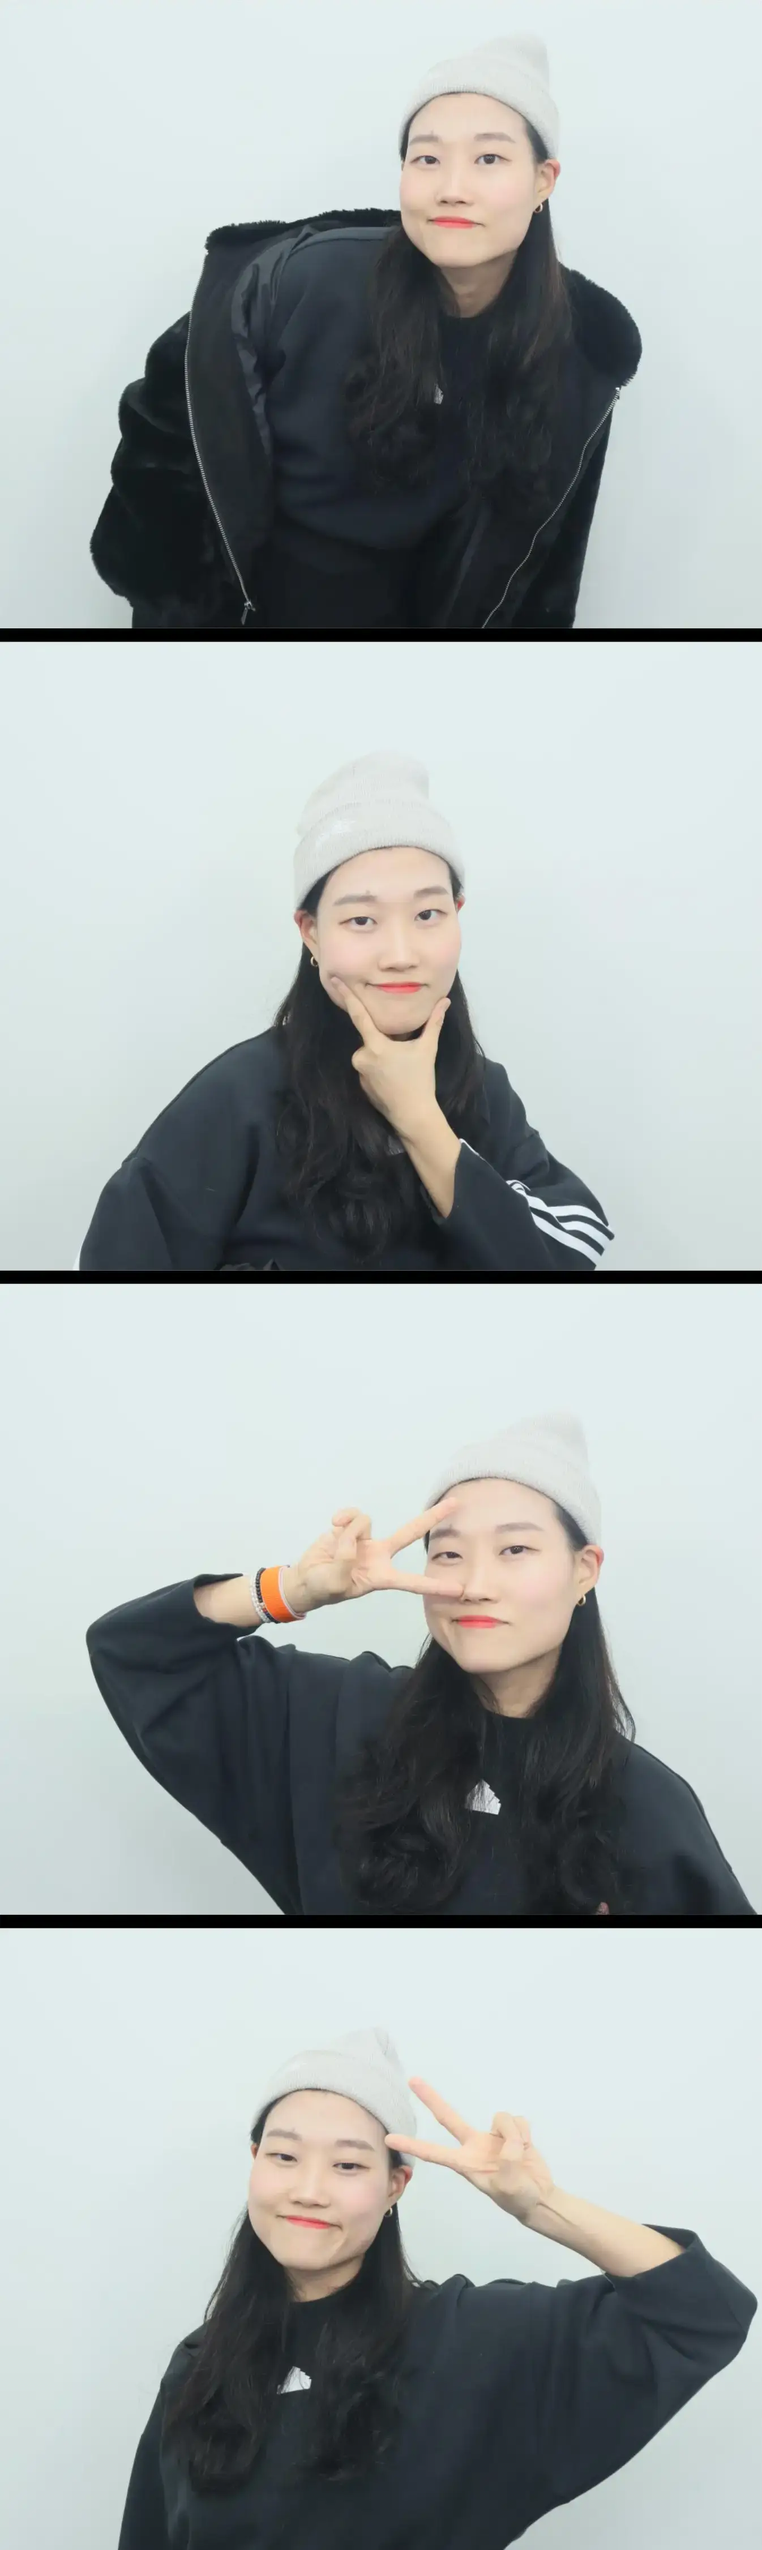
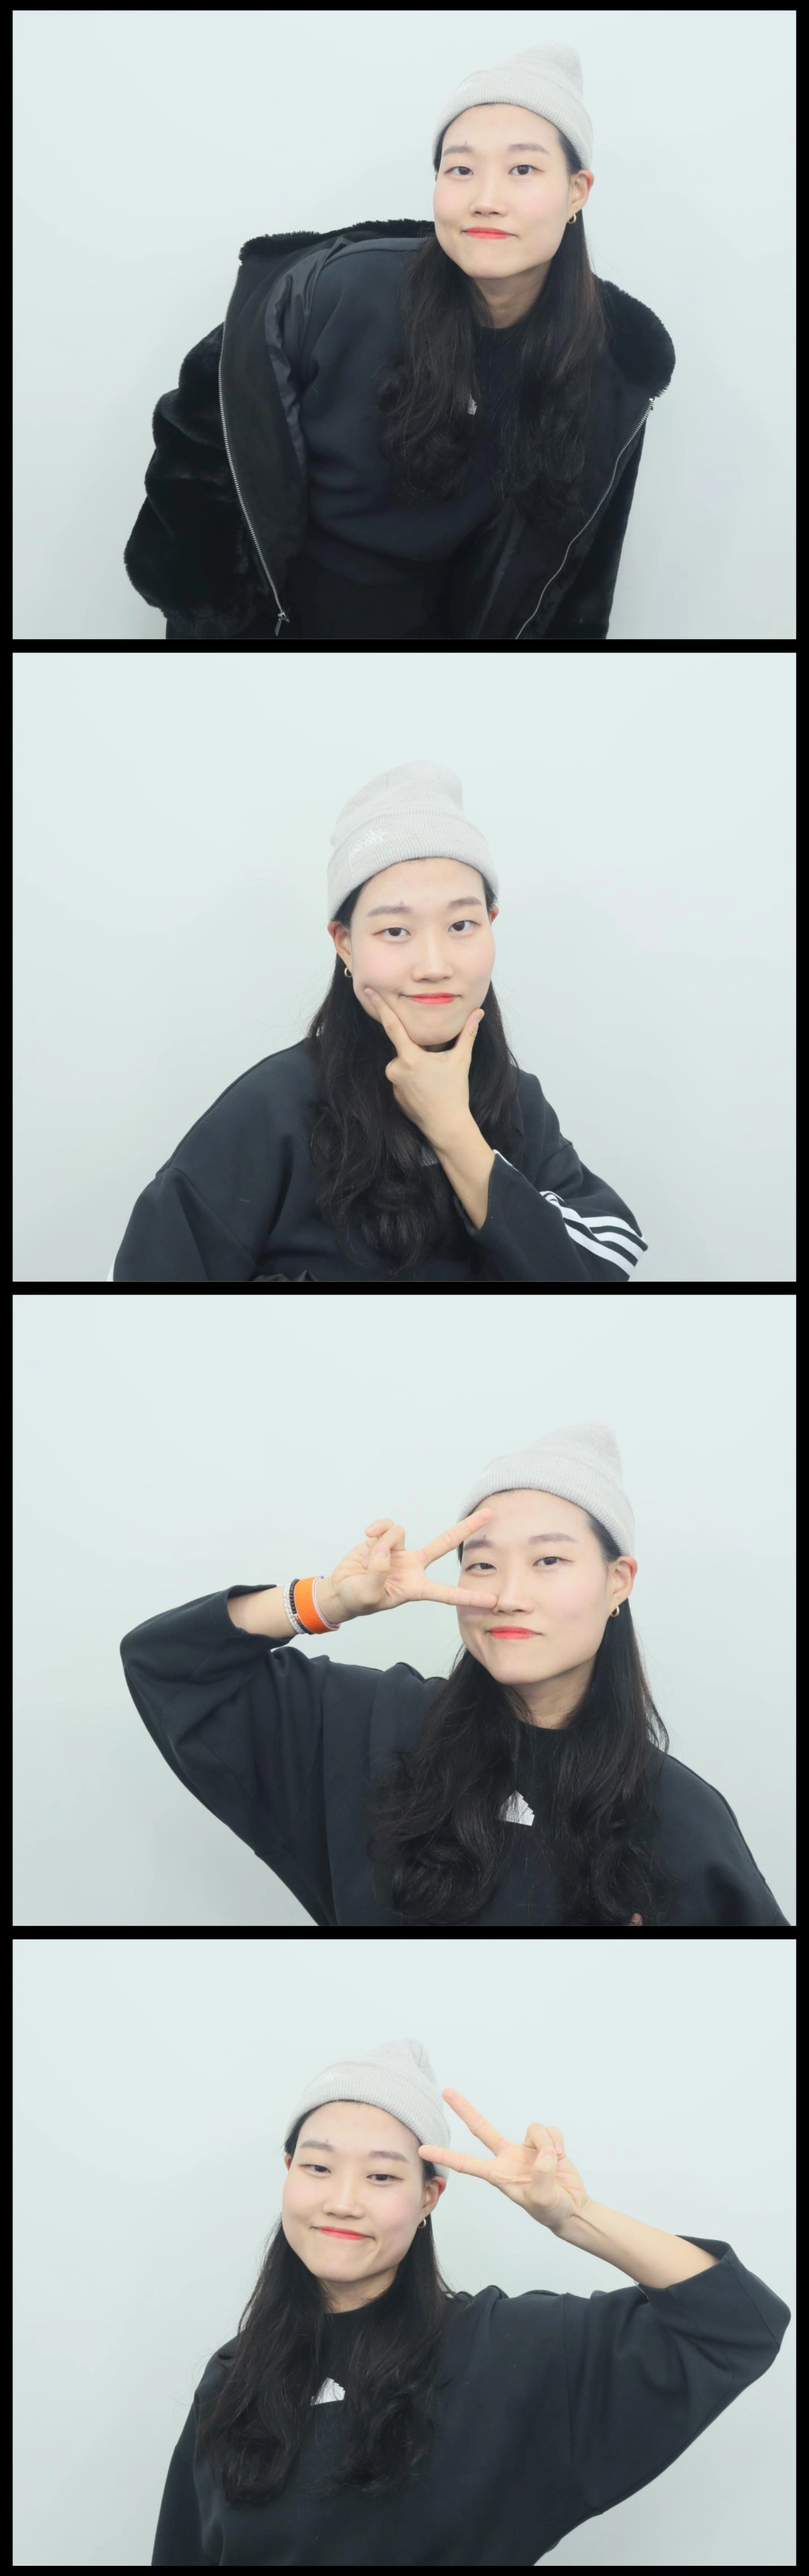
new main done

diff --git a/src/views/NewMain.vue b/src/views/NewMain.vue
@@ -1,7 +1,66 @@
 <script setup>
+import { ref, onMounted } from "vue"
+import { gsap } from "gsap"
+import { SplitText } from "gsap/SplitText"
+import { CustomEase } from "gsap/CustomEase"
+
 import { useI18n } from 'vue-i18n'
 const { t, locale } = useI18n()
 
+gsap.registerPlugin(SplitText, CustomEase)
+CustomEase.create("osmo-ease", "0.625, 0.05, 0, 1")
+const headingRef = ref(null)
+const miniTitRef = ref(null)
+const nameRef = ref(null)
+const subListRef = ref(null)
+const miniTxtRef = ref(null)
+
+let currentTween = null
+let currentTargets = null
+
+const config = {
+  duration: 0.8,
+  stagger: 0.05,
+  ease: "osmo-ease",
+}
+
+function animate(target) {
+  if (!target) return
+
+  // SplitText 처리
+  const split = SplitText.create(target, {
+    type: "words",
+    wordsClass: "word",
+  })
+
+  gsap.fromTo(
+    split.words,
+    { yPercent: 50, opacity: 0 },
+    {
+      yPercent: 0,
+      opacity: 1,
+      duration: config.duration,
+      stagger: config.stagger,
+      ease: config.ease,
+    }
+  )
+}
+
+onMounted(() => {
+  gsap.set([headingRef.value, miniTitRef.value,  nameRef.value, subListRef.value, miniTxtRef.value], {
+    opacity: 0,
+  })
+
+  document.fonts.ready.then(() => {
+    const elements = [headingRef.value, miniTitRef.value,  nameRef.value, subListRef.value, miniTxtRef.value]
+    elements.forEach((el, i) => {
+      gsap.delayedCall(i * 0.6, () => {
+        gsap.to(el, { opacity: 1, duration: 0.5 })
+        animate(el)
+      })
+    })
+  })
+})
 </script>
 
 <template>
@@ -9,18 +68,18 @@ const { t, locale } = useI18n()
     <div class="new__container">
       <div class="new__img"></div>
       <div class="new__main">
-        <div class="new__minitit">BASED IN SOUTH KOREA</div>
-        <h1 class="new__tit">CREATIVE DESIGNER</h1>
+        <div class="new__minitit" ref="miniTitRef">BASED IN SOUTH KOREA</div>
+        <h1 data-split="heading" ref="headingRef" class="new__tit">CREATIVE DESIGNER</h1>
       </div>
       <div class="new__subbox">
-        <h4 class="new__name">MINJI KIM</h4>
-        <ul class="new__sublist">
+        <h4 class="new__name" ref="nameRef">MINJI KIM</h4>
+        <ul class="new__sublist" ref="subListRef">
           <li>DESIGN WORK</li>
           <li>WEB DESIGN[UI/UX]</li>
           <li>WEB DEVELOPMENT</li>
         </ul>
       </div>
-      <div class="new__minitxt">
+      <div class="new__minitxt" ref="miniTxtRef">
         {{ t('new.maintxt') }}
       </div>
     </div>
@@ -29,19 +88,33 @@ const { t, locale } = useI18n()
 
 <style lang="scss">
 .new {
+  --width: 100%;
   height: 100%;
   width: 100%;
   font-family:'GmarketSans';
 
   &__container{
     position: relative;
-    display: grid;
-    grid-template-areas: 
-    ". . ."
-    "main main main"
-    ". . ."
-    ". sub sub"
-    ". . mini";
+    &::before{
+      position: absolute;
+      content: '';
+      display: block;
+      width: 100%;
+      height: 1px;
+      background-color: #fff;
+      top: 15%;
+      z-index: -1;
+    }
+    &::after{
+      position: absolute;
+      content: '';
+      display: block;
+      width: 100%;
+      height: 1px;
+      background-color: #fff;
+      bottom: 15%;
+      z-index: -1;
+    }
   }
   &__img{
     position: absolute;
@@ -58,32 +131,72 @@ const { t, locale } = useI18n()
     padding: 15% 50px 0;
     width: 100%;
     --font-scale: 0.08; 
-    grid-area: main;
+
   }
   &__minitit{
     text-align: right;
     letter-spacing: 0.8em;
-    font-size: calc(var(--font-scale) * 14vw);
+    font-size: calc(var(--font-scale) * 13vw);
     padding-right: 5px;
+    overflow: hidden;
   }
   &__tit{
+    position: relative;
     text-align: center;
     font-size: calc(var(--font-scale) * 94vw);
     font-weight: 800;
     color: #000;
     mix-blend-mode: overlay;
+    z-index: 1;
+    &::before{
+      position: absolute;
+      content: '';
+      display: block;
+      width: 1px;
+      height: 100vh;
+      background-color: #fff;
+      top: -150%;
+      left: 10%;
+      z-index: -1;
+    }
+    &::after{
+      position: absolute;
+      content: '';
+      display: block;
+      width: 1px;
+      height: 100vh;
+      background-color: #fff;
+      top: -150%;
+      right: 5%;
+      z-index: -1;
+    }
   }
   &__subbox{
     background-color: #fff;
     grid-area: sub;
     --font-scale: 0.08;
+    width: calc(var(--width) * 0.43);
+    margin-left: 20%;
+    padding: 130px 20px 20px;
+
+
   }
   &__name{
     font-size: calc(var(--font-scale) * 20vw);
+    padding-bottom: 50px;
+    overflow: hidden;
   }
-  &__sublist{}
+  &__sublist{
+    font-size: calc(var(--font-scale) * 19vw);
+    li {
+  overflow: hidden;
+}
+  }
   &__minitxt{
-    grid-area: mini;
+    float: right;
+    width: calc(var(--width) * 0.4);
+    padding: 10px 55px 0;
+    font-size: 14px;
   }
 }
 </style>

diff --git a/src/views/MySkills.vue b/src/views/MySkills.vue
@@ -18,6 +18,8 @@ gsap.registerPlugin(ScrollTrigger);
 
 const scrollerRef = ref(null);
 let bodyScrollBar;
+const isScrolling = ref(false)
+let scrollTimeout = null
 
 onMounted(() => {
   bodyScrollBar = Scrollbar.init(scrollerRef.value, {
@@ -101,6 +103,11 @@ onMounted(() => {
     end: () => "+=" + images.length * window.innerHeight,
     invalidateOnRefresh: true,
   });
+  bodyScrollBar.addListener(({ offset }) => {
+    // offset.y = 현재 스크롤 위치
+    // 예: 0이면 맨 위, 200 이상이면 버튼 표시
+    isScrolling.value = offset.y > 0
+  })
 
 });
 
@@ -123,6 +130,7 @@ const scrollToBottom = () => {
     bodyScrollBar.scrollTo(0, maxScrollTop, 800);
   }
 };
+
 
 </script>
 <template>
@@ -191,15 +199,15 @@ const scrollToBottom = () => {
       </div>
     </div> 
     <Footer></Footer>
-    <div class="scroll-btn-group">
-      <button class="scroll-btn top" @click="scrollToTop"><span class="material-icons-round">expand_less</span></button>
-      <button class="scroll-btn bottom" @click="scrollToBottom"><span class="material-icons-round">expand_more</span> </button>
-    </div>
-    <div class="scroll-btn-group2">
-      <button class="scroll-btn top" @click="scrollToTop"><span class="material-icons-round">expand_less</span></button>
-      <button class="scroll-btn bottom" @click="scrollToBottom"><span class="material-icons-round">expand_more</span> </button>
-    </div>
+   
+
   </div>
+    <transition name="fade">      
+      <div class="scroll-btn-group2" v-if="isScrolling">
+        <button class="scroll-btn top" @click="scrollToTop"><span class="material-icons-round">expand_less</span></button>
+        <button class="scroll-btn bottom" @click="scrollToBottom"><span class="material-icons-round">expand_more</span> </button>
+      </div>
+    </transition>
 </template>
 
 
@@ -207,7 +215,7 @@ const scrollToBottom = () => {
 <style scoped lang="scss">
 
 ::-webkit-scrollbar {
-  display: none !important; /* Chrome, Safari, Edge */
+  display: none !important; 
 }
 .scroller {
   height: 100vh;
@@ -219,7 +227,7 @@ const scrollToBottom = () => {
   background-size: cover;
   position: relative;
   z-index: 10;
-  height: 100vh;
+  min-height: 100vh;
   overflow: hidden !important;
 }
 .main-box {
@@ -524,38 +532,9 @@ const scrollToBottom = () => {
     color: #333;  
   }
 }
-.scroll-btn-group {
-  position: fixed;
-  right: 50px;
-  top: 8%;
-  display: flex;
-  flex-direction: column;
-  gap: 10px;
-  z-index: 999;
-  .scroll-btn {
-    padding: 5px 8px;
-    background: rgba( 255, 255, 255, 0.1 );
-    box-shadow: 0 3px 20px 0 rgba(0, 0, 0, 0.37);
-    backdrop-filter: blur( 4px );
-    -webkit-backdrop-filter: blur( 4px );
-    border-radius: 10px;
-    border: 1px solid rgba( 255, 255, 255, 0.18 );
-    color: #fff;
-    border: none;
-    border-radius: 6px;
-    cursor: pointer;
-    font-weight: bold;
-    transition: background-color 0.3s;
-  }
-  @media (max-width: 768px) {
-    right: 20px;
-    top: 8%;
-  }
-}
-
-
 .scroll-btn:hover {
   background-color: #555 !important;
+  color: #eee !important;
 }
 
 
@@ -575,7 +554,7 @@ const scrollToBottom = () => {
     -webkit-backdrop-filter: blur( 4px );
     border-radius: 10px;
     border: 1px solid rgba( 255, 255, 255, 0.18 );
-    color: #fff;
+    color: #292929;
     border: none;
     border-radius: 6px;
     cursor: pointer;
@@ -609,5 +588,19 @@ const scrollToBottom = () => {
   100% {
     transform: translateX(-50%);
   }
+}
+.fade-enter-active,
+.fade-leave-active {
+  transition: opacity 0.4s ease, transform 0.4s ease;
+}
+.fade-enter-from,
+.fade-leave-to {
+  opacity: 0;
+  transform: translateY(20px); /* 살짝 아래에서 올라오는 느낌 */
+}
+.fade-enter-to,
+.fade-leave-from {
+  opacity: 1;
+  transform: translateY(0);
 }
 </style>
